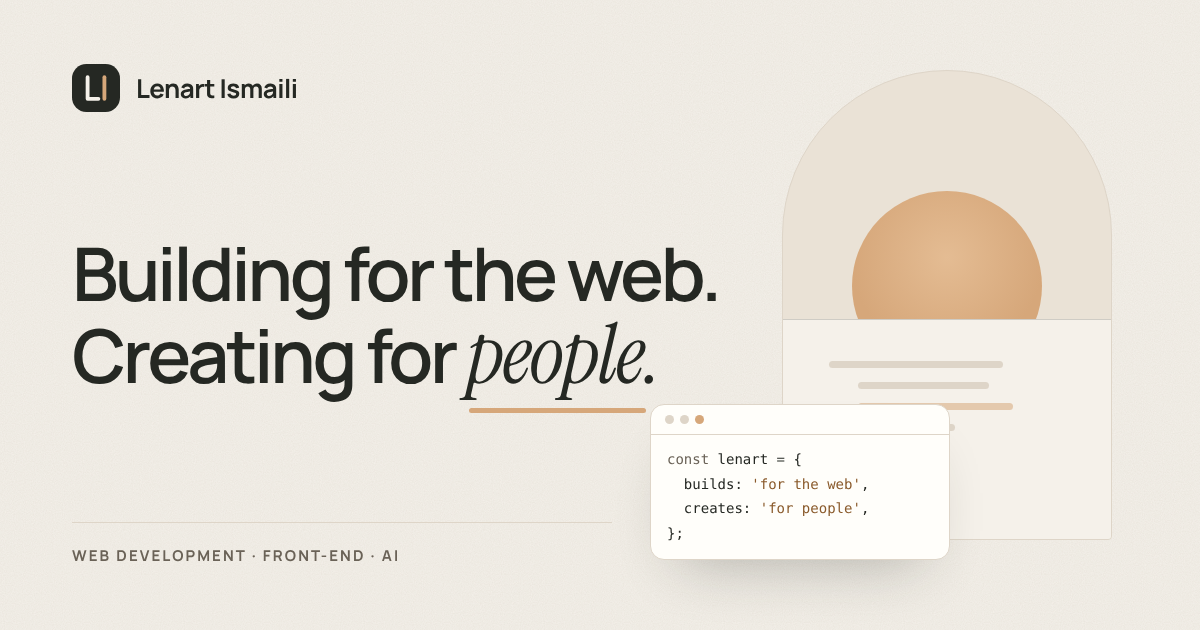
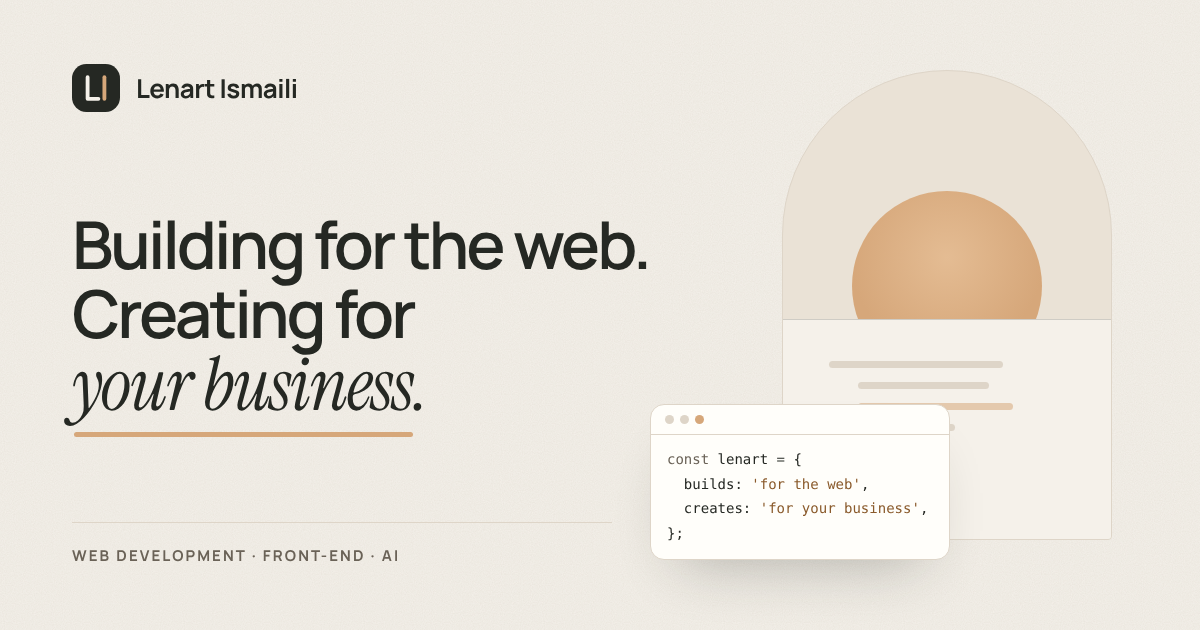
Animate the hero headline through the businesses it serves
"Creating for people." now cycles through restaurants, coffee shops,
agencies, hotels, boutiques, salons and startups, then comes to rest on
"your business." Each word lifts away as the next settles in, the sand
underline redraws beneath it, and the hero's code card types the same
value in step.

- The sequence plays once, pauses while the tab is hidden, and shows
  the final word without motion when reduced motion is preferred
- Screen readers and search engines get one stable sentence; the
  animated text is hidden from assistive technology
- The word sits on its own line so nothing below it shifts
- The underline scales with the headline instead of a fixed pixel dash
- The list lives in src/data/site.js (heroAudiences)
- Meta descriptions and the social preview image use the new wording

Claude-Session: https://claude.ai/code/session_01PqejukikkrjPP7fTqKHKcs

Changed region(s): [[0.0617, 0.3317, 0.6167, 0.6937], [0.6783, 0.7841, 0.7708, 0.8143]]

diff --git a/src/components/Hero/Hero.jsx b/src/components/Hero/Hero.jsx
@@ -1,9 +1,18 @@
 import { ArrowDown, ArrowRight } from 'lucide-react';
+import { site } from '../../data/site.js';
+import { useWordCycle } from '../../hooks/useWordCycle.js';
 import Button from '../ui/Button.jsx';
 import HeroArtwork from './HeroArtwork.jsx';
+import RotatingWord from './RotatingWord.jsx';
 import './Hero.css';
 
+const audiences = site.heroAudiences;
+const lastAudience = audiences[audiences.length - 1];
+const audienceSentence = `${audiences.slice(0, -1).join(', ')} and ${lastAudience}`;
+
 export default function Hero() {
+  const audienceIndex = useWordCycle(audiences.length);
+
   return (
     <section id="home" className="hero" aria-labelledby="hero-title">
       <div className="container hero__inner">
@@ -14,16 +23,19 @@ export default function Hero() {
           </p>
 
           <h1 id="hero-title" className="hero__title">
-            <span className="hero__line hero-enter" style={{ '--enter-delay': '140ms' }}>
-              Building for the web.
-            </span>{' '}
-            <span className="hero__line hero-enter" style={{ '--enter-delay': '240ms' }}>
-              <span className="hero__nowrap">Creating for</span>{' '}
-              <span className="hero__accent">
-                <span className="serif-accent">people.</span>
-                <svg className="hero__swash" viewBox="0 0 220 24" preserveAspectRatio="none" aria-hidden="true" focusable="false">
-                  <path d="M3 17C48 8 118 4 217 12" />
-                </svg>
+            {/* One stable sentence for screen readers and search engines */}
+            <span className="visually-hidden">
+              Building for the web. Creating for {audienceSentence}.
+            </span>
+            <span aria-hidden="true">
+              <span className="hero__line hero-enter" style={{ '--enter-delay': '140ms' }}>
+                Building for the web.
+              </span>
+              <span className="hero__line hero-enter" style={{ '--enter-delay': '240ms' }}>
+                Creating for
+              </span>
+              <span className="hero__line hero-enter" style={{ '--enter-delay': '320ms' }}>
+                <RotatingWord words={audiences} index={audienceIndex} />
               </span>
             </span>
           </h1>
@@ -44,7 +56,7 @@ export default function Hero() {
         </div>
 
         <div className="hero__visual hero-enter" style={{ '--enter-delay': '260ms' }}>
-          <HeroArtwork />
+          <HeroArtwork audience={audiences[audienceIndex]} />
         </div>
 
         <div className="hero__footer hero-enter" style={{ '--enter-delay': '560ms' }}>

diff --git a/src/components/Hero/Hero.css b/src/components/Hero/Hero.css
@@ -38,20 +38,25 @@
   text-wrap: balance;
 }
 
-.hero__nowrap {
-  white-space: nowrap;
-}
-
-.hero__accent {
+/* Rotating audience word */
+.rotator {
   position: relative;
   display: inline-block;
   white-space: nowrap;
 }
 
-.hero__accent .serif-accent {
+.rotator__word {
+  display: inline-block;
   font-size: 1.12em;
   line-height: 0.9;
   letter-spacing: -0.02em;
+}
+
+.rotator__word--leaving {
+  position: absolute;
+  top: 0;
+  left: 0;
+  pointer-events: none;
 }
 
 .hero__swash {
@@ -64,12 +69,12 @@
   overflow: visible;
 }
 
+/* Scales with the headline, so the stroke stays in proportion on every screen */
 .hero__swash path {
   fill: none;
   stroke: var(--sand);
-  stroke-width: 5;
+  stroke-width: 6;
   stroke-linecap: round;
-  vector-effect: non-scaling-stroke;
 }
 
 .hero__intro {
@@ -163,9 +168,43 @@
   }
 
   .hero__swash path {
-    stroke-dasharray: 240;
-    stroke-dashoffset: 240;
-    animation: draw-swash 1.1s var(--ease-out) 900ms forwards;
+    stroke-dasharray: 1;
+    stroke-dashoffset: 1;
+    animation: draw-swash 0.9s var(--ease-out) 250ms forwards;
+  }
+
+  /* The first word draws its underline once the headline has settled */
+  .hero__swash--intro path {
+    animation-delay: 900ms;
+  }
+
+  .rotator__word--entering {
+    animation: word-in 0.75s var(--ease-out) both;
+  }
+
+  .rotator__word--leaving {
+    animation: word-out 0.5s var(--ease-in-out) both;
+  }
+}
+
+@keyframes word-in {
+  from {
+    opacity: 0;
+    filter: blur(8px);
+    transform: translateY(0.32em);
+  }
+  to {
+    opacity: 1;
+    filter: blur(0);
+    transform: none;
+  }
+}
+
+@keyframes word-out {
+  to {
+    opacity: 0;
+    filter: blur(6px);
+    transform: translateY(-0.28em);
   }
 }
 
@@ -369,6 +408,27 @@
 
 .tok-str {
   color: var(--color-text-accent);
+}
+
+/* Value typed into the code card in step with the headline */
+.artwork__typed {
+  display: inline-block;
+  max-width: calc(var(--chars) * 1ch);
+  overflow: hidden;
+  vertical-align: top;
+  white-space: pre;
+}
+
+@media (prefers-reduced-motion: no-preference) {
+  .artwork__typed {
+    animation: type-in calc(var(--chars) * 40ms) steps(var(--chars), end) 150ms both;
+  }
+}
+
+@keyframes type-in {
+  from {
+    max-width: 0;
+  }
 }
 
 .artwork__caret {

diff --git a/src/components/Hero/RotatingWord.jsx b/src/components/Hero/RotatingWord.jsx
@@ -1,0 +1,51 @@
+import { useEffect, useState } from 'react';
+
+const LEAVE_MS = 600;
+
+/**
+ * Shows `words[index]` and animates between words: the previous word lifts
+ * away while the next one settles in and the underline redraws beneath it.
+ */
+export default function RotatingWord({ words, index }) {
+  const [initialIndex] = useState(index);
+  const [state, setState] = useState({ index, leaving: null });
+
+  // Keep the outgoing word in the same render as the incoming one, so the
+  // two cross-fade without a blank frame in between.
+  if (state.index !== index) {
+    setState({ index, leaving: state.index });
+  }
+
+  useEffect(() => {
+    if (state.leaving === null) return undefined;
+    const timer = window.setTimeout(() => setState((s) => ({ ...s, leaving: null })), LEAVE_MS);
+    return () => window.clearTimeout(timer);
+  }, [state.leaving]);
+
+  const isIntro = index === initialIndex;
+
+  return (
+    <span className="rotator">
+      {state.leaving !== null ? (
+        <span key={`leaving-${state.leaving}`} className="rotator__word rotator__word--leaving serif-accent">
+          {words[state.leaving]}.
+        </span>
+      ) : null}
+      <span
+        key={`current-${index}`}
+        className={`rotator__word serif-accent${isIntro ? '' : ' rotator__word--entering'}`}
+      >
+        {words[index]}.
+      </span>
+      <svg
+        key={`swash-${index}`}
+        className={`hero__swash${isIntro ? ' hero__swash--intro' : ''}`}
+        viewBox="0 0 400 24"
+        preserveAspectRatio="none"
+        focusable="false"
+      >
+        <path d="M5 17C90 8 214 4 395 12" pathLength="1" />
+      </svg>
+    </span>
+  );
+}

diff --git a/index.html b/index.html
@@ -22,19 +22,19 @@
     <meta property="og:title" content="Lenart Ismaili — Web, Front-End &amp; AI Developer" />
     <meta
       property="og:description"
-      content="Building for the web. Creating for people. Thoughtful digital experiences with clean code, intuitive design and modern technology."
+      content="Building for the web. Creating for restaurants, coffee shops, agencies and your business. Thoughtful websites with clean code and intuitive design."
     />
     <meta property="og:url" content="%SITE_URL%" />
     <meta property="og:image" content="%SITE_URL%og-image.png" />
     <meta property="og:image:width" content="1200" />
     <meta property="og:image:height" content="630" />
-    <meta property="og:image:alt" content="Lenart Ismaili — Building for the web. Creating for people." />
+    <meta property="og:image:alt" content="Lenart Ismaili — Building for the web. Creating for your business." />
     <meta property="og:locale" content="en_US" />
     <meta name="twitter:card" content="summary_large_image" />
     <meta name="twitter:title" content="Lenart Ismaili — Web, Front-End &amp; AI Developer" />
     <meta
       name="twitter:description"
-      content="Building for the web. Creating for people. Thoughtful digital experiences with clean code, intuitive design and modern technology."
+      content="Building for the web. Creating for restaurants, coffee shops, agencies and your business. Thoughtful websites with clean code and intuitive design."
     />
     <meta name="twitter:image" content="%SITE_URL%og-image.png" />
   </head>

diff --git a/src/components/Hero/HeroArtwork.jsx b/src/components/Hero/HeroArtwork.jsx
@@ -3,7 +3,9 @@
  * and a small code card describing what the site is about. Purely visual,
  * so it is hidden from assistive technology.
  */
-export default function HeroArtwork() {
+export default function HeroArtwork({ audience }) {
+  const typed = `'for ${audience}'`;
+
   return (
     <figure className="artwork" aria-hidden="true">
       <div className="artwork__stage">
@@ -37,8 +39,12 @@ export default function HeroArtwork() {
               <span className="tok-key">const</span> lenart = {'{'}
               {'\n'}  focus: [<span className="tok-str">'web'</span>, <span className="tok-str">'front-end'</span>, <span className="tok-str">'ai'</span>],
               {'\n'}  builds: <span className="tok-str">'for the web'</span>,
-              {'\n'}  creates: <span className="tok-str">'for people'</span>,
-              {'\n'}{'}'};<span className="artwork__caret" />
+              {'\n'}  creates:{' '}
+              <span key={audience} className="tok-str artwork__typed" style={{ '--chars': typed.length }}>
+                {typed}
+              </span>
+              ,<span className="artwork__caret" />
+              {'\n'}{'}'};
             </code>
           </pre>
         </div>

diff --git a/src/hooks/useWordCycle.js b/src/hooks/useWordCycle.js
@@ -1,0 +1,31 @@
+import { useEffect, useState } from 'react';
+
+const prefersReducedMotion = () =>
+  typeof window !== 'undefined' && window.matchMedia('(prefers-reduced-motion: reduce)').matches;
+
+/**
+ * Steps through `count` items once, holding each for `interval` ms, and
+ * stops on the last one. Pauses while the tab is hidden so the sequence
+ * isn't missed, and starts on the final item when motion is reduced.
+ */
+export function useWordCycle(count, { interval = 2300, firstHold = 3200 } = {}) {
+  const [index, setIndex] = useState(() => (prefersReducedMotion() ? count - 1 : 0));
+
+  useEffect(() => {
+    if (index >= count - 1) return undefined;
+
+    let timer;
+    const advance = () => {
+      if (document.hidden) {
+        timer = window.setTimeout(advance, 400);
+        return;
+      }
+      setIndex((current) => Math.min(current + 1, count - 1));
+    };
+
+    timer = window.setTimeout(advance, index === 0 ? firstHold : interval);
+    return () => window.clearTimeout(timer);
+  }, [index, count, interval, firstHold]);
+
+  return index;
+}

diff --git a/src/data/site.js b/src/data/site.js
@@ -10,6 +10,21 @@ export const site = {
   shortName: 'LI',
   roles: ['Web Developer', 'Front-End Developer', 'AI Developer'],
 
+  /**
+   * The hero headline ends with "Creating for …" and cycles through these
+   * words once. The animation comes to rest on the last one.
+   */
+  heroAudiences: [
+    'restaurants',
+    'coffee shops',
+    'agencies',
+    'hotels',
+    'boutiques',
+    'salons',
+    'startups',
+    'your business',
+  ],
+
   /** Public URL of the deployed site. Used for canonical and Open Graph tags. */
   url: 'https://webdevlenart.github.io/Lenart/',
 

diff --git a/README.md b/README.md
@@ -5,7 +5,7 @@ The personal portfolio of **Lenart Ismaili**, Web Developer, Front-End Developer
 A warm, editorial single-page site built with React and Vite: ivory and sand tones, confident
 typography, and a featured case study of [TwoMindsDev](https://twomindsdev.com/).
 
-![Preview of the portfolio: “Building for the web. Creating for people.”](public/og-image.png)
+![Preview of the portfolio: “Building for the web. Creating for your business.”](public/og-image.png)
 
 - **Live site:** https://webdevlenart.github.io/Lenart/ (once GitHub Pages is enabled, see [Deployment](#deployment))
 - **GitHub:** [@webdevLenart](https://github.com/webdevLenart)
@@ -48,7 +48,7 @@ All content lives in plain JavaScript files in `src/data/`, so you rarely need t
 
 | File | What it controls |
 | --- | --- |
-| `src/data/site.js` | Name, roles, social links, the public site URL and an optional email address |
+| `src/data/site.js` | Name, roles, the businesses the hero headline cycles through, social links, the public site URL and an optional email address |
 | `src/data/navigation.js` | Navigation links (each `id` matches a section on the page) |
 | `src/data/skills.js` | Skill groups and technologies |
 | `src/data/projects.js` | Projects shown in the Projects section |
